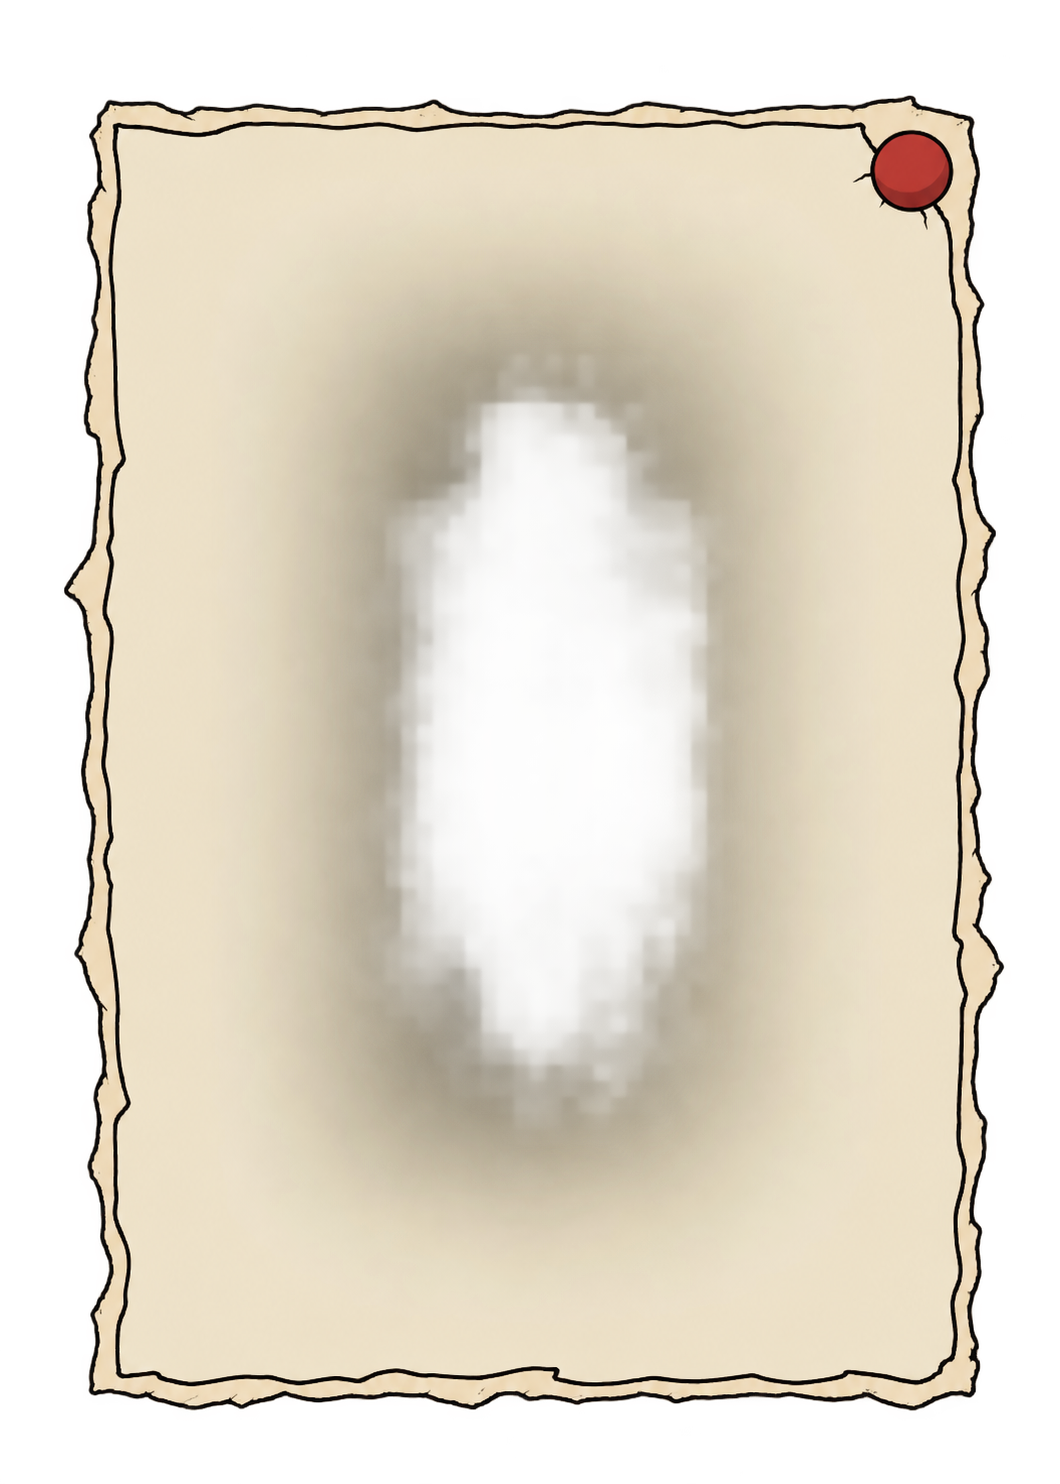
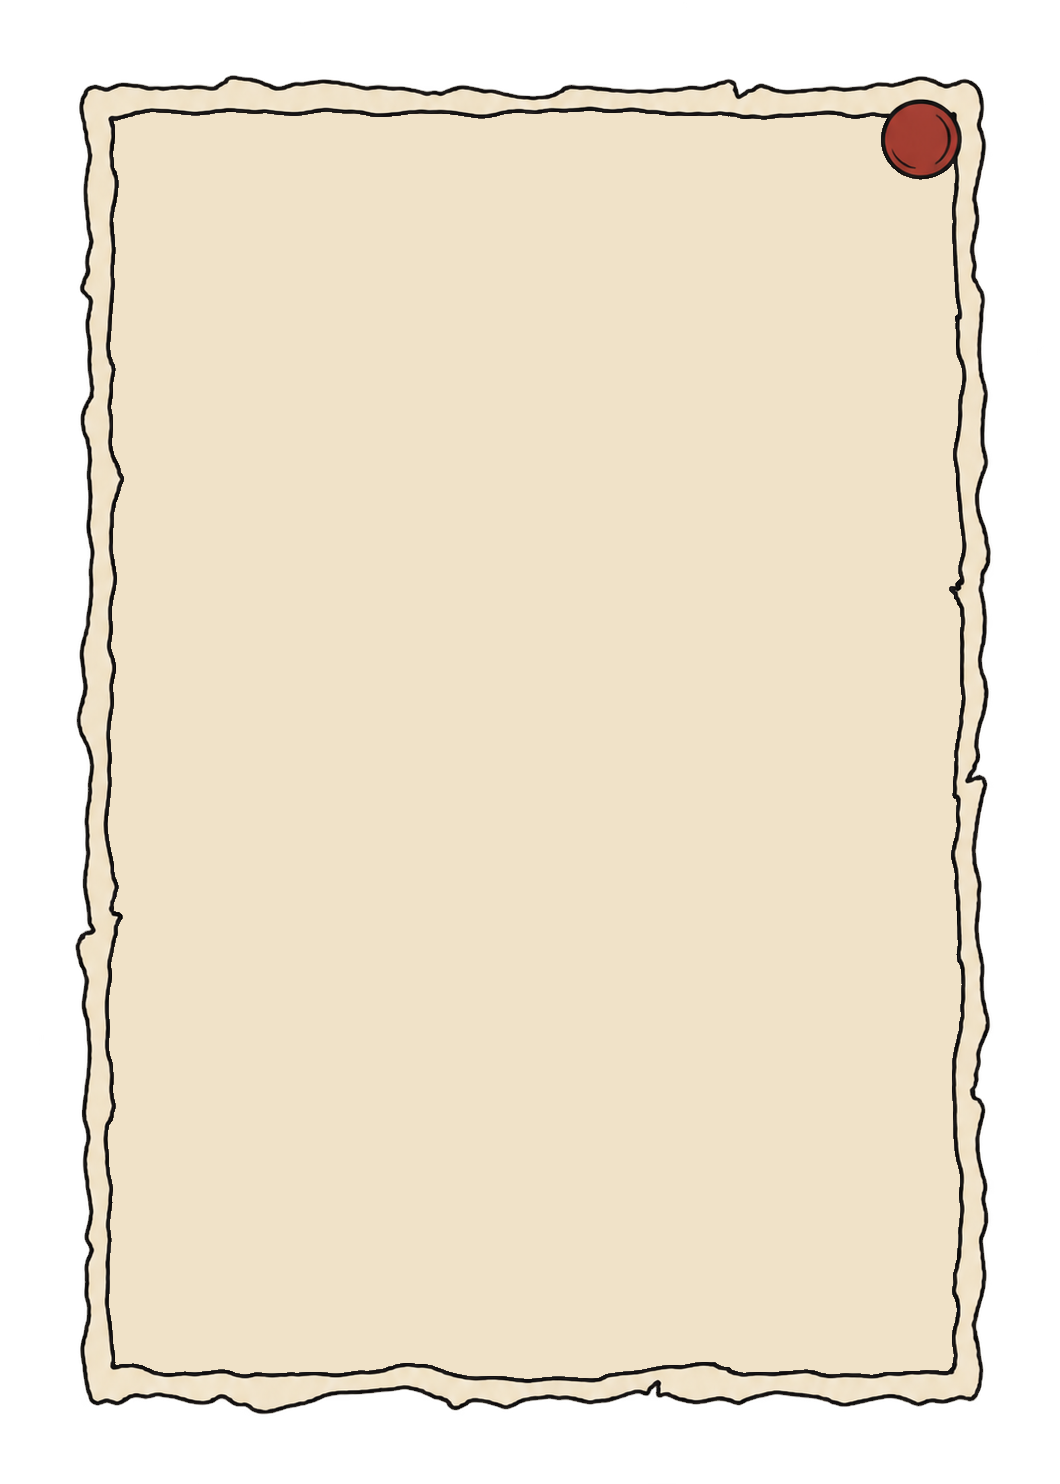
YOK-159-astra-shop-settled: ledger slip take 2 repaired by script (flat centre, opaque paper, fringe cleared); raw take kept

diff --git a/tools/ui/repair_slip.py b/tools/ui/repair_slip.py
@@ -1,0 +1,47 @@
+"""Repair an Astra paper plate whose flat centre was eaten by background removal (YOK-159 ledger slip).
+
+Fills everything inside the inner ink border with the flat paper colour, makes the paper opaque, and clears
+coloured matte fringe outside the pin. Usage: python repair_slip.py <raw.png> <out.png>  (needs pillow, numpy, scipy)
+"""
+import sys
+import numpy as np
+from PIL import Image
+from scipy import ndimage
+
+src, dst = sys.argv[1], sys.argv[2]
+im = np.array(Image.open(src).convert('RGBA')).astype(np.int16)
+rgb, a = im[..., :3], im[..., 3]
+h, w = a.shape
+lum = rgb.mean(axis=2)
+sat = rgb.max(axis=2) - rgb.min(axis=2)
+red = (rgb[..., 0] > 140) & (rgb[..., 1] < 100) & (a > 128)
+ink = (lum < 90) & (a > 180) & (sat < 60)
+barrier = ink | red
+# The interior is the region reachable from the centre without crossing the inner ink line or the pin.
+regions, _ = ndimage.label(~barrier)
+interior = regions == regions[h // 2, w // 2]
+if interior[0, 0] or interior.sum() > 0.9 * h * w:
+    sys.exit('flood escaped the inner border; refusing to write')
+# Flat paper colour: median of the clean paper band between the inner line and the torn edge; fall back to the light paper inside.
+band = (~interior) & (a > 240) & (lum > 200) & (sat < 60)
+if band.sum() < 1000:
+    band = interior & (a > 240) & (lum > 200) & (sat < 60)
+paper = np.median(rgb[band], axis=0).round().astype(np.int16)
+if not band.any():
+    sys.exit('no clean paper to sample; refusing to write')
+im[interior, :3] = paper
+im[interior, 3] = 255
+# Astra left the paper slightly see-through (alpha 247-252): make the body of the slip opaque, keep soft edge pixels.
+im[im[..., 3] > 200, 3] = 255
+# Fringe: saturated pixels that are not the pin. Keep the pin's bounding box (grown by 12 px) untouched.
+ys, xs = np.nonzero(red)
+lab, n = ndimage.label(red)
+sizes = ndimage.sum(red, lab, range(1, n + 1))
+pin = lab == (int(np.argmax(sizes)) + 1)
+py, px = np.nonzero(pin)
+keep = np.zeros_like(red)
+keep[max(py.min() - 12, 0):py.max() + 13, max(px.min() - 12, 0):px.max() + 13] = True
+fringe = (sat > 70) & ~keep & ~interior & (a > 0)
+im[fringe, 3] = 0
+Image.fromarray(im.clip(0, 255).astype(np.uint8), 'RGBA').save(dst)
+print(f'paper {tuple(paper)}, interior {interior.sum()} px ({interior.mean():.0%}), fringe cleared {fringe.sum()} px, pin box {px.min()},{py.min()}-{px.max()},{py.max()}')
